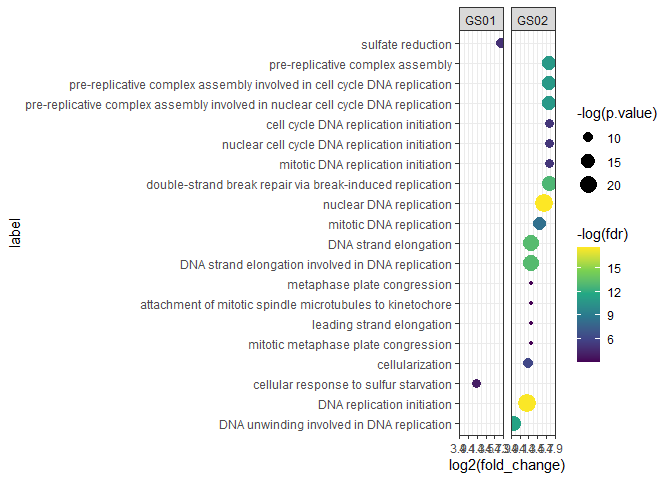
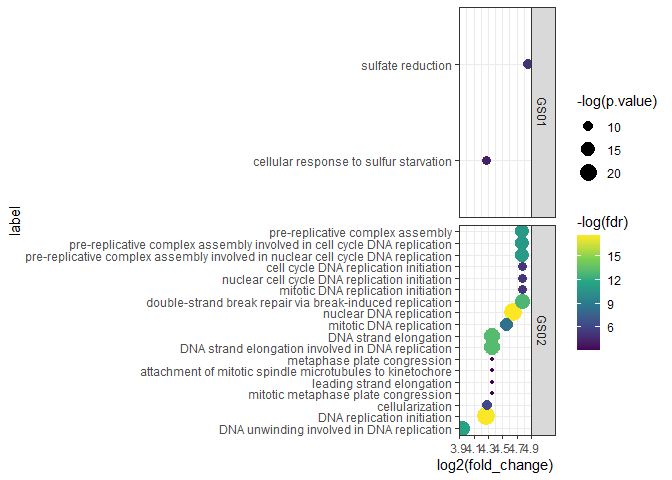
updated README

Changed region(s): [[0.0312, 0.0, 1.0, 1.0], [0.0, 0.4375, 0.0312, 0.5312], [0.7188, 0.3125, 0.75, 0.3438]]

diff --git a/README.md b/README.md
@@ -1,5 +1,3 @@
-oracl
-================
 Lukas Muenter
 27 7 2021
 
@@ -85,16 +83,27 @@ bp.ls = lapply(gs.ls, oraclient,
 
 ``` r
 # get ONE dataframe (ID-column `grouping` specifies the geneset)
-bp.df <- oracl_list_to_df(bp.ls)
+bp.ls.df <- oracl_list_to_df(bp.ls)
 ```
 
 ### Make a facetted dotplot (One facet per group)
 
+We can now plot overrepresented GO-Terms using group information in the
+column `bp.df$grouping`. We can either make a facetted dotplot:
+
 ``` r
-oraclot(bp.df, top_n = 20) + scale_color_viridis_c()
+oraclot(bp.ls.df, top_n = 20) + scale_color_viridis_c()
 ```
 
 ![](README_files/figure-gfm/unnamed-chunk-4-1.png)<!-- -->
+
+Or we can make a facetted volcano plot:
+
+``` r
+volcanoracl(bp.ls.df, top_n = 20)
+```
+
+![](README_files/figure-gfm/unnamed-chunk-5-1.png)<!-- -->
 
 ## Limitations
 
